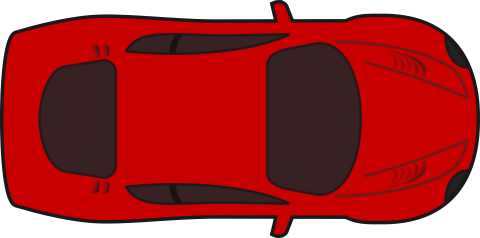
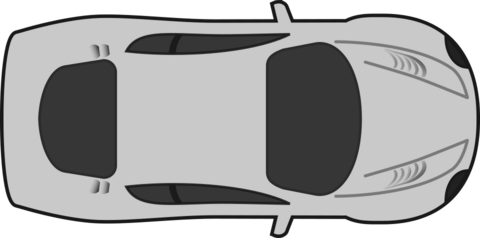
Draw cars tinted by the bots color

diff --git a/racer/car.py b/racer/car.py
@@ -1,19 +1,21 @@
-from argparse import Namespace
-from copy import deepcopy
-
+import pygame
+from pygame import Color
 from pygame.surface import Surface
 
 
 class Car:
-    def __init__(self, module):
-        self.name: str = module.name
-        self.image: Surface = module.image
-        self.scale: float = module.scale
+    def __init__(self, name: str, image: Surface, scale: float, color: Color):
+        self.name = name
+        self.image: Surface = image.copy()
+        self.scale = scale
 
-    def __deepcopy__(self, memo):
-        return self.__class__(Namespace(name=deepcopy(self.name),
-                                        image=self.image.copy(),
-                                        scale=deepcopy(self.scale)))
+        color_image = pygame.Surface(self.image.get_size())
+        color_image.fill(color)
+        self.image.blit(color_image, (0, 0), special_flags=pygame.BLEND_MULT)
+
+    @staticmethod
+    def from_module(module, color: Color):
+        return Car(module.name, module.image, module.scale, color)
 
     def __repr__(self):
         return 'f"Car({self.name!r}, {self.image!r}, {self.scale!r})'

diff --git a/racer/window.py b/racer/window.py
@@ -56,7 +56,7 @@ class Window:
             footprint = [car_footprint.elementwise() * v / 2 for v in
                          [Vector2(-1, -1), Vector2(-1, 1), Vector2(1, 1), Vector2(1, -1)]]
             footprint = [Transform(car_model.position.M, car_pos) * p for p in footprint]
-            pygame.draw.polygon(map_scaled, bot.color, footprint, 2)
+            # pygame.draw.polygon(map_scaled, bot.color, footprint, 2)
 
             # Draw a line from the car to the next waypoint
             next_waypoint_scaled = self.game_state.track.lines[car_model.next_waypoint] * zoom

diff --git a/racer/game_state.py b/racer/game_state.py
@@ -21,7 +21,8 @@ class GameState:
         self.bots = {}  # type: Dict[Bot, CarInfo]
         self.frames = 0  # type: int # Number of frames since the start of the game
         for Bot in all_bots:
-            self.bots[Bot(deepcopy(self.track))] = CarInfo(Car(car1), self.track)
+            bot = Bot(deepcopy(self.track))
+            self.bots[bot] = CarInfo(Car.from_module(car1, bot.color), self.track)
 
     def reset(self):
         self.frames = 0

diff --git a/racer/test/test_car.py b/racer/test/test_car.py
@@ -1,9 +1,9 @@
-from copy import deepcopy
+from pygame import Color
 
 from ..car import Car
 from ..cars import car1
 
 
 def test_car1():
-    car = Car(car1)
-    deepcopy(car)
+    car = Car.from_module(car1, Color('red'))
+    assert isinstance(car.name, str)
